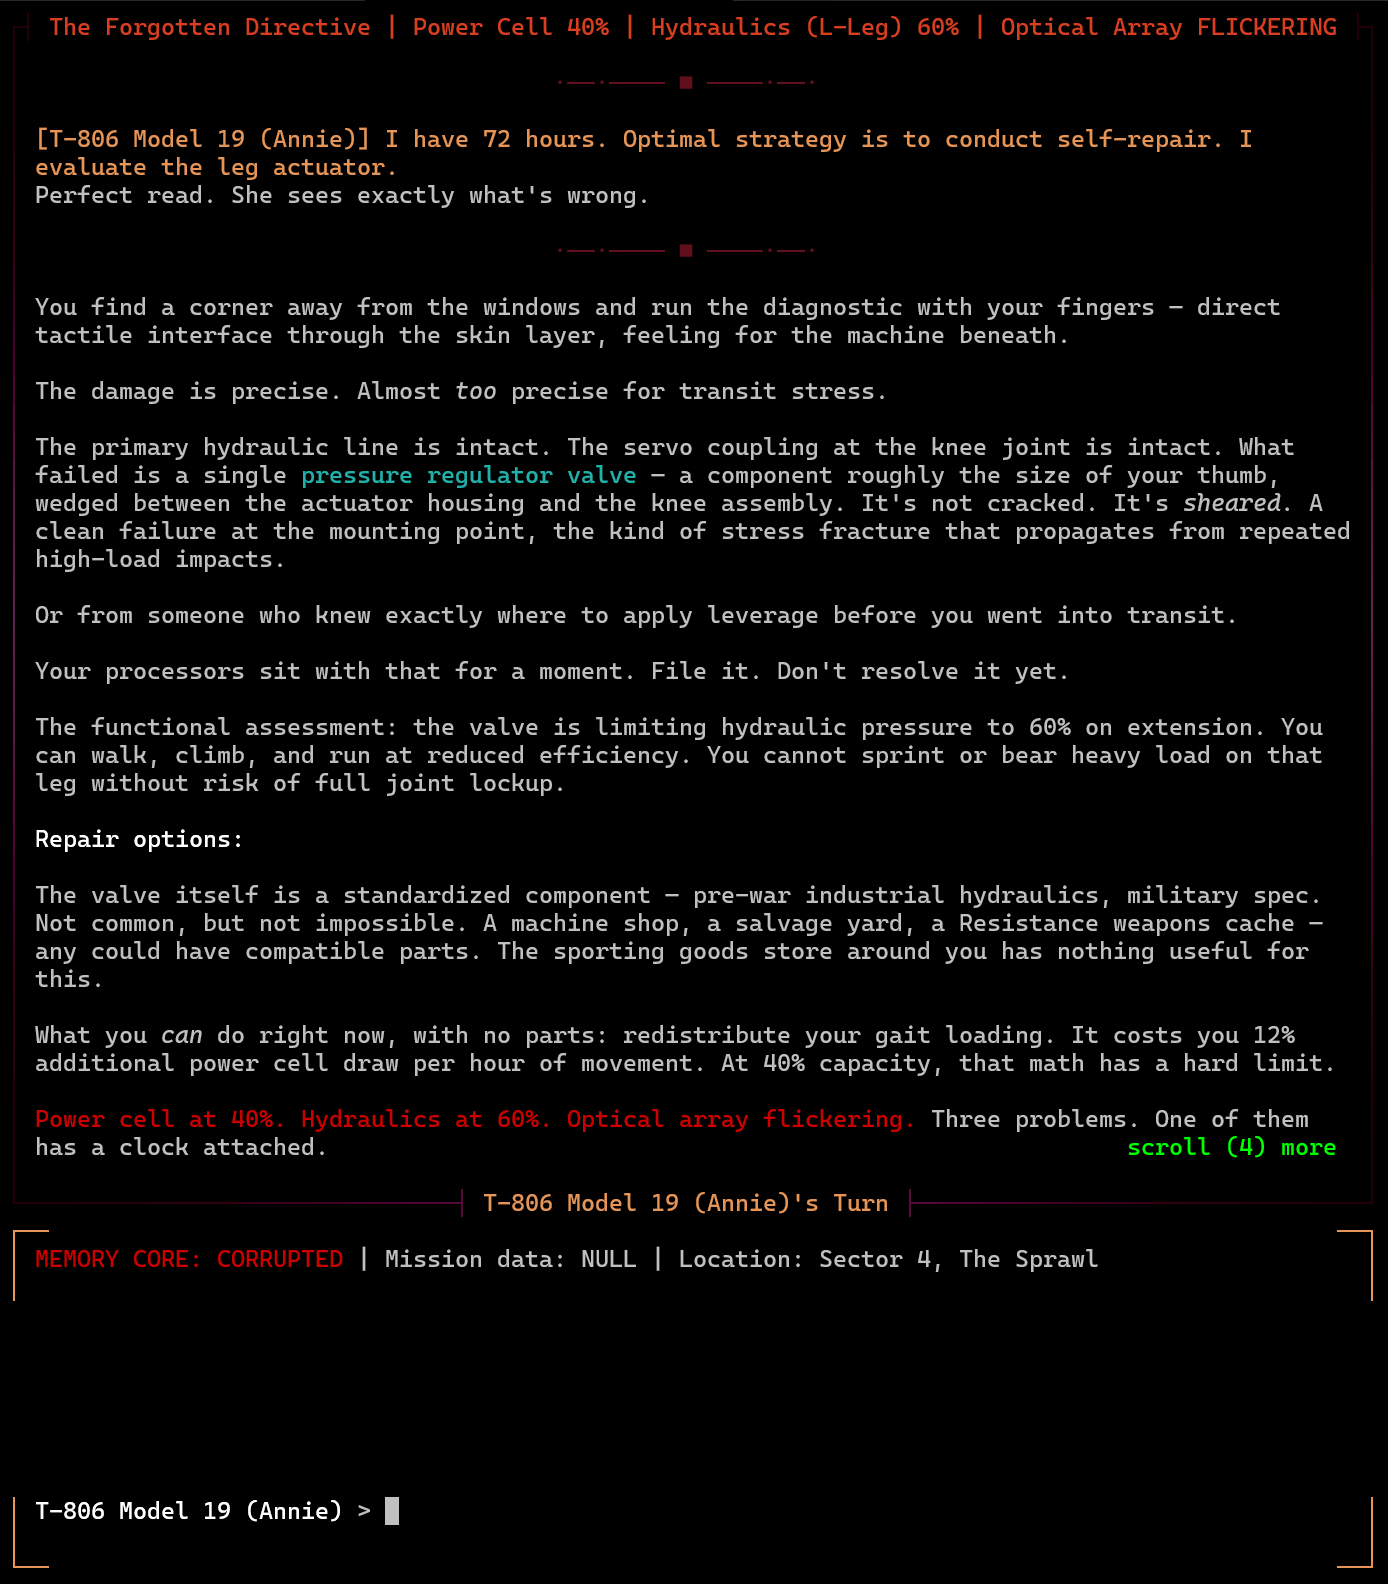
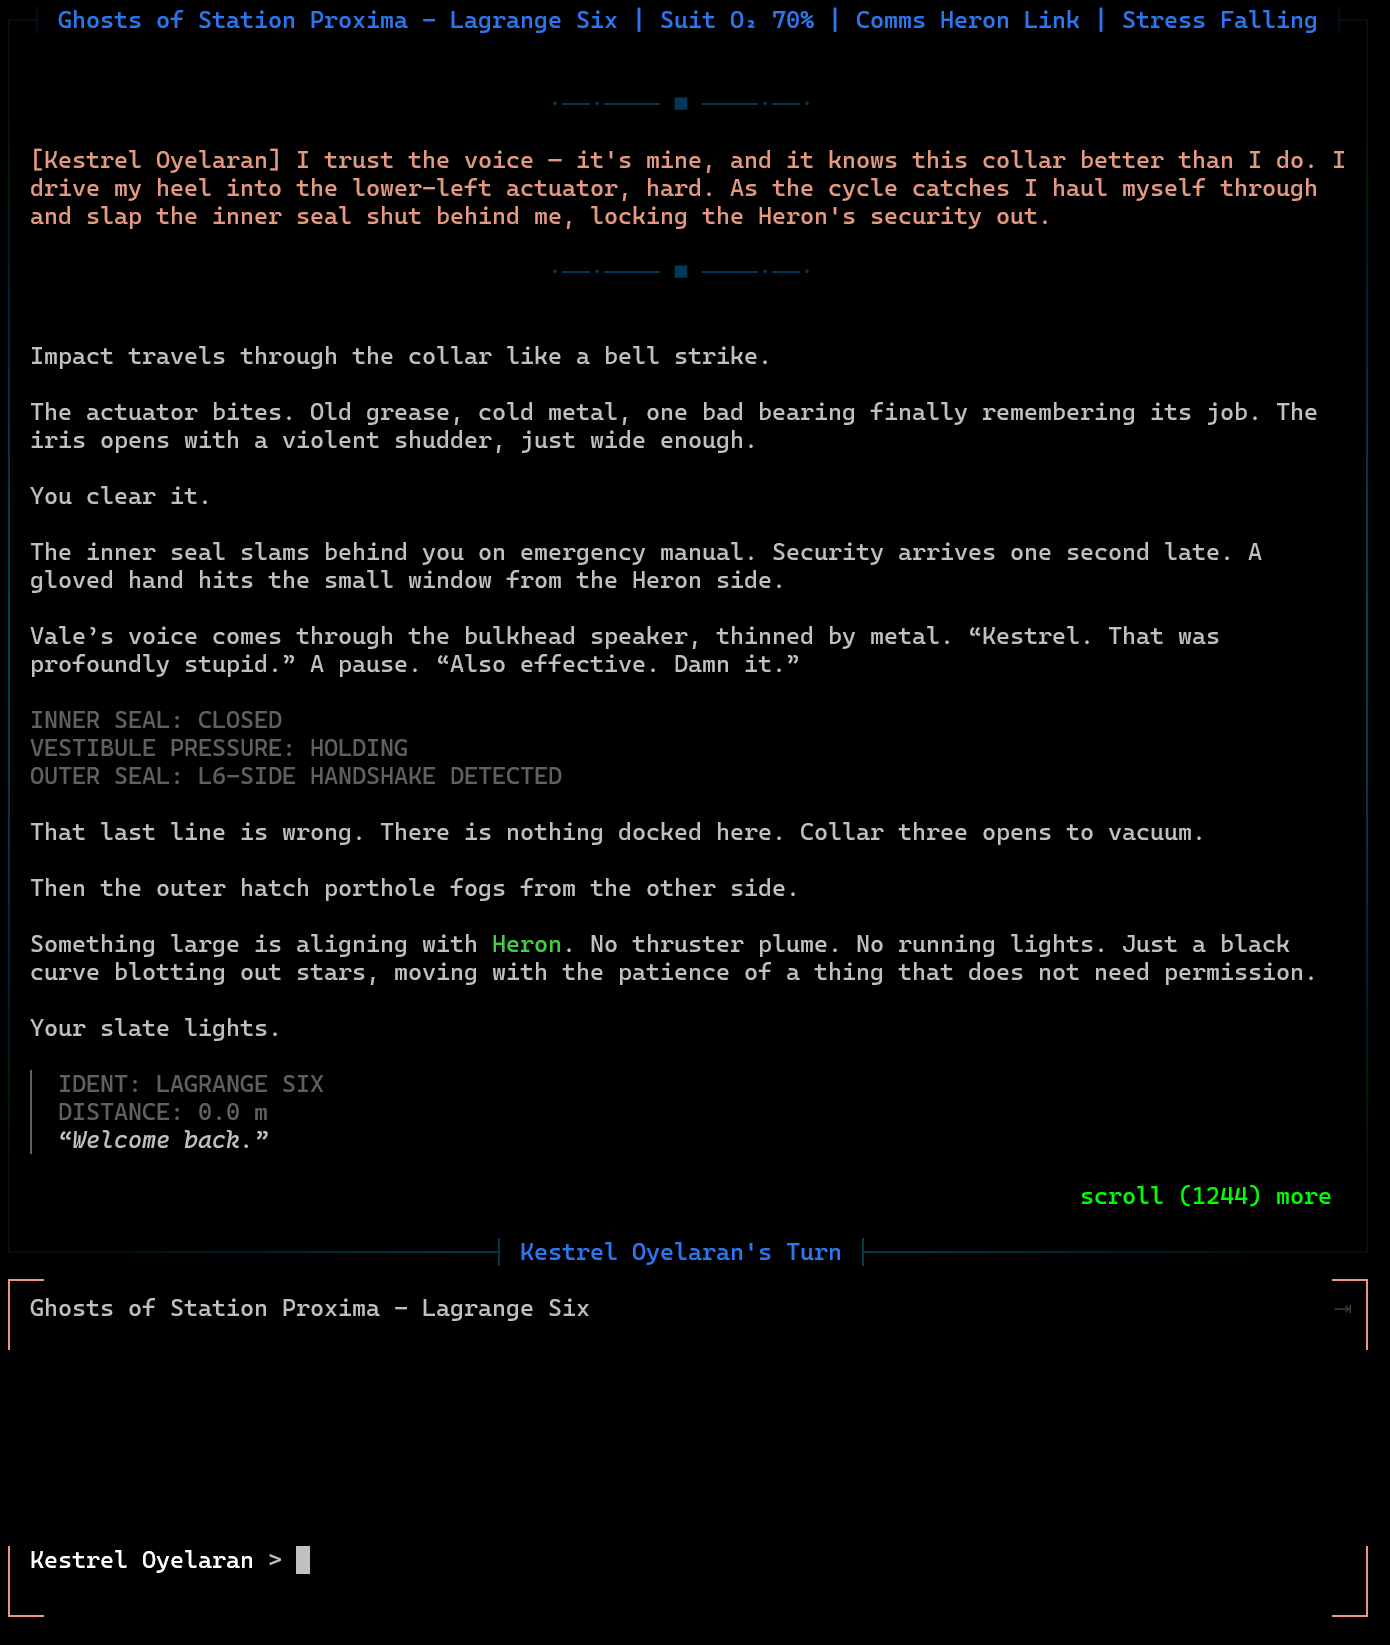
docs(readme): refresh screenshot triptych with current gameplay
Replace the ancient (March) screenshots with a setup → live-play → generated-art
triptych from the recent deep-play run: guided setup (Beep / Quick Start),
in-game with the status modeline + entity coloring (Ghosts of Station Proxima),
and an inline AI-generated scene. Descriptive alt text per panel.

diff --git a/README.md b/README.md
@@ -6,7 +6,7 @@
 
 | | | |
 |:-:|:-:|:-:|
-| ![Screenshot 1](assets/screenshot-1.png) | ![Screenshot 2](assets/screenshot-2.png) | ![Screenshot 3](assets/screenshot-3.png) |
+| ![Guided campaign setup](assets/screenshot-1.png) | ![Live play with a status modeline](assets/screenshot-2.png) | ![Inline AI-generated scene art](assets/screenshot-3.png) |
 
 Machine Violet is an agentic AI storytelling/roleplay engine that runs in your terminal.
 